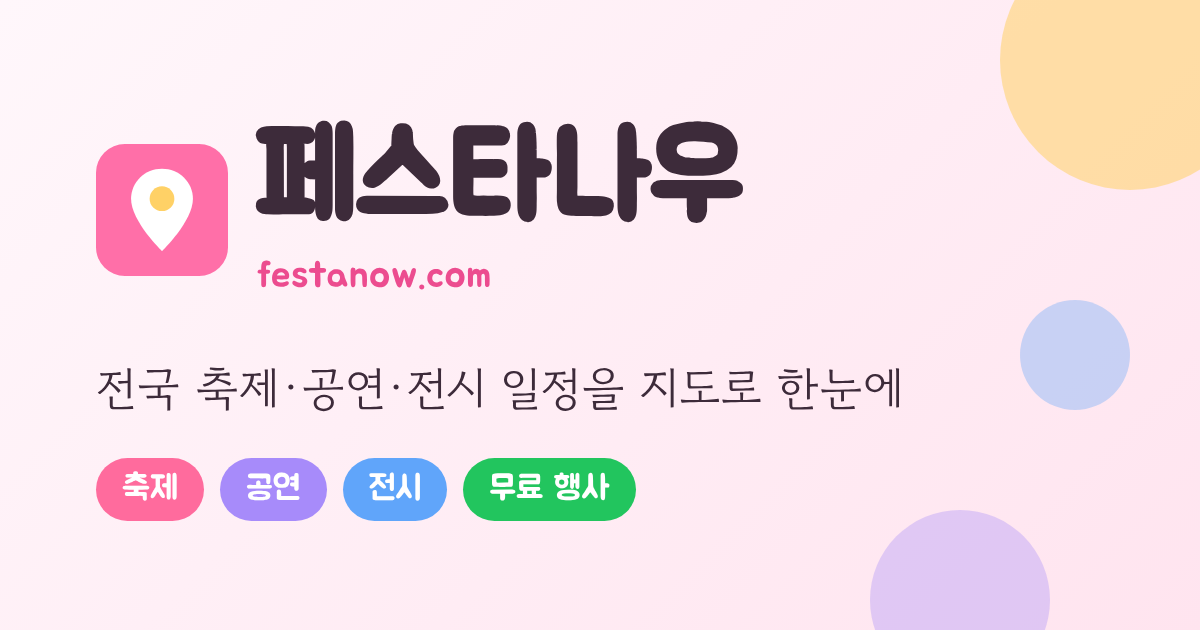
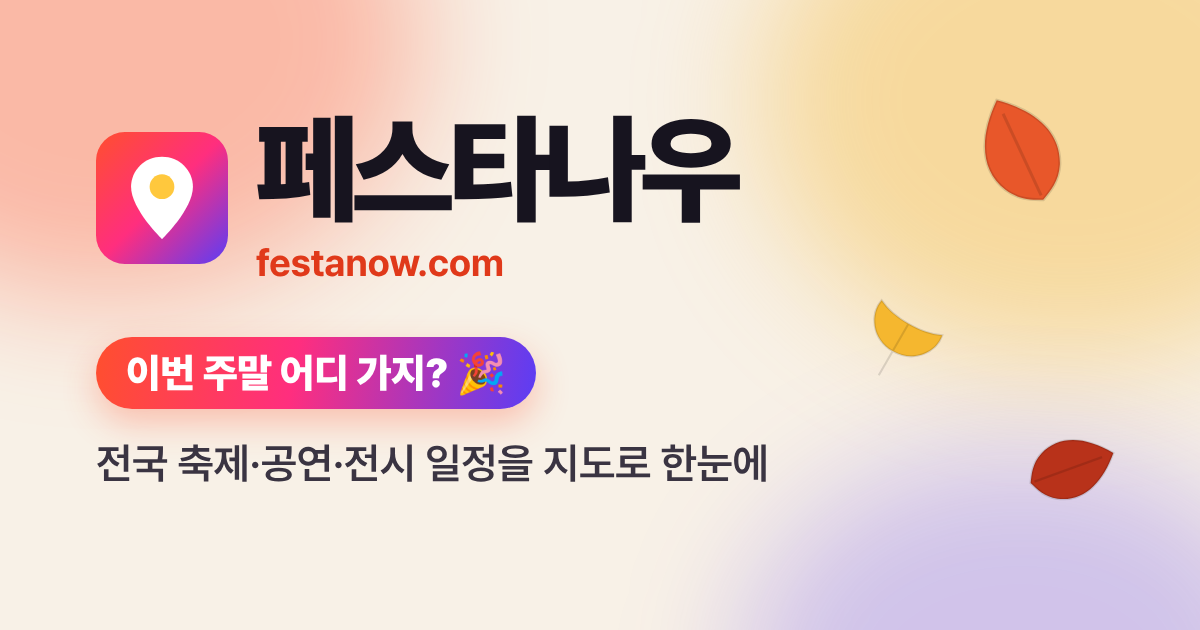
새 디자인: 노을빛 주황·보라 색감, 움직임, 계절 배경 (#24)
* 디자인 초안: 분홍 대신 노을빛 주황·보라와 움직임

- 글꼴을 Pretendard로, 굵은 제목과 잉크색 글씨
- 행동을 부르는 불꽃 주황, 밤·공연의 보라를 포인트로, 점무늬 배경은 위쪽 노을빛 번짐으로
- 인기 축제 상자를 어두운 카드로, 순위 숫자는 노란색
- 날짜 칸 색을 '얼마나 급한지'로: 진행 중은 주황, 오늘 마지막은 검정, 곧 시작은 보라
- 움직임: 문구 배지에 흐르는 그라데이션과 반짝임, 진행 중 배지의 깜빡이는 점, 카드가 차례로 떠오름, 로고 핀 떨어짐, 누를 때 살짝 눌림
- 움직임 줄이기 설정이면 모두 멈춤

Claude-Session: https://claude.ai/code/session_01UUMsFd6ww7TxchMLJyZ6EC

* 계절 배경: 가을 낙엽, 겨울 눈, 봄 꽃잎, 여름 반딧불

서울 기준 달로 계절을 정해 배경 빛깔을 바꾸고, 그 계절에 맞는 것들이 화면을 천천히 지나가게 한다.
반투명이고 누를 수 없어 읽기·클릭을 막지 않으며, 움직임 줄이기 설정이면 띄우지 않는다.
?season=winter 처럼 주소에 붙여 다른 계절을 미리 볼 수 있다.

Claude-Session: https://claude.ai/code/session_01UUMsFd6ww7TxchMLJyZ6EC

* 공유 이미지를 새 색감으로, 글꼴은 npm 경로로 불러오기

Claude-Session: https://claude.ai/code/session_01UUMsFd6ww7TxchMLJyZ6EC

---------

diff --git a/src/assets/season.js b/src/assets/season.js
@@ -1,0 +1,38 @@
+// 한국 계절(서울 기준 달)에 맞춰 배경에 떨어지는 것들을 띄운다: 봄 벚꽃잎, 여름 반딧불, 가을 낙엽, 겨울 눈.
+// ?season=winter 처럼 주소에 붙이면 미리 볼 수 있다. 움직임 줄이기 설정이면 띄우지 않는다.
+(() => {
+  const month = Number(new Intl.DateTimeFormat('en', { timeZone: 'Asia/Seoul', month: 'numeric' }).format(new Date()));
+  const byMonth = month >= 3 && month <= 5 ? 'spring' : month <= 8 && month >= 6 ? 'summer' : month >= 9 && month <= 11 ? 'autumn' : 'winter';
+  const asked = new URLSearchParams(location.search).get('season');
+  const season = ['spring', 'summer', 'autumn', 'winter'].includes(asked) ? asked : byMonth;
+  document.body.dataset.season = season;
+  if (matchMedia('(prefers-reduced-motion: reduce)').matches) return;
+
+  const LEAF = 'M12 1C6 6 3 12 6 18c1.6 3 4 4 6 5 2-1 4.4-2 6-5 3-6 0-12-6-17zM12 4v18';
+  const GINKGO = 'M12 23v-8M12 15C5 15 1 9 2 4c3 1.5 6.5 2 10 2s7-.5 10-2c1 5-3 11-10 11zM12 6v9';
+  const PETAL = 'M12 2c5 3 7 9 5 14-1 3-3 5-5 6-2-1-4-3-5-6-2-5 0-11 5-14zM12 2l-1.2 3h2.4z';
+  const shapes = {
+    autumn: [[LEAF, '#e8572a'], [LEAF, '#c2410c'], [GINKGO, '#f5b72f'], [LEAF, '#f08a2c'], [GINKGO, '#e9a21d'], [LEAF, '#b8321a']],
+    spring: [[PETAL, '#f9b4cb'], [PETAL, '#f7a1bd'], [PETAL, '#fcd2df']],
+  };
+  const svg = ([d, c]) => `<svg viewBox="0 0 24 24" width="100%" height="100%"><path d="${d}" fill="${c}" stroke="rgba(0,0,0,.12)" stroke-width=".6" stroke-linejoin="round"/></svg>`;
+
+  const count = innerWidth < 700 ? 10 : 18;
+  const layer = document.createElement('div');
+  layer.className = 'season-layer';
+  layer.setAttribute('aria-hidden', 'true');
+  const rand = (a, b) => a + Math.random() * (b - a);
+  for (let i = 0; i < count; i++) {
+    const p = document.createElement('span');
+    p.className = 'sp';
+    const dur = season === 'summer' ? rand(9, 16) : season === 'winter' ? rand(10, 20) : rand(11, 19);
+    const size = season === 'winter' ? rand(5, 11) : season === 'summer' ? rand(4, 8) : rand(18, 30);
+    p.style.cssText = `--x:${rand(0, 100).toFixed(1)}vw;--d:${dur.toFixed(1)}s;--delay:${(-rand(0, dur)).toFixed(1)}s;--s:${size.toFixed(0)}px;--sway:${rand(20, 70).toFixed(0)}px;--sd:${rand(2.5, 5).toFixed(1)}s;--r:${rand(240, 720).toFixed(0)}deg`;
+    const inner = document.createElement('i');
+    const list = shapes[season];
+    if (list) inner.innerHTML = svg(list[i % list.length]);
+    p.append(inner);
+    layer.append(p);
+  }
+  document.body.prepend(layer);
+})();

diff --git a/src/assets/lib/render.js b/src/assets/lib/render.js
@@ -50,7 +50,7 @@ export function renderCard(e, { root = './', today, origin = null } = {}) {
   const mapBtn = hasLocation(e)
     ? `<button type="button" class="map-btn" aria-label="${esc(e.title)} 지도에서 보기">지도</button>`
     : '';
-  return `<li class="card" data-id="${esc(e.id)}" data-cat="${esc(e.category)}">
+  return `<li class="card" data-id="${esc(e.id)}" data-cat="${esc(e.category)}" data-status="${status.key}">
   <div class="stub-col">${ticketStub(e, status)}${mapBtn}</div>
   <div class="card-body">
     <div class="card-tags"><span class="badge cat-${esc(e.category)}">${esc(CATEGORIES[e.category] || '')}</span><span class="badge status-${status.key}">${esc(status.label)}</span>${free}${noMap}${dist}</div>
